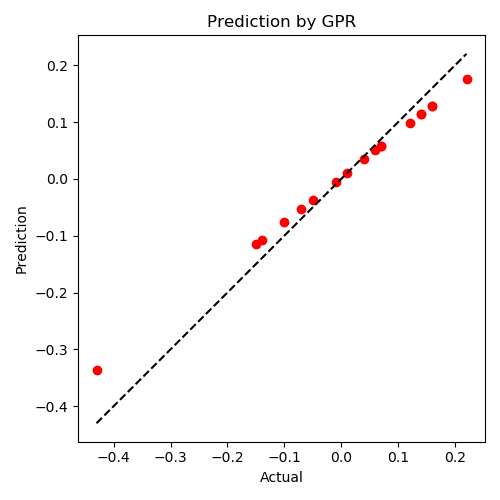
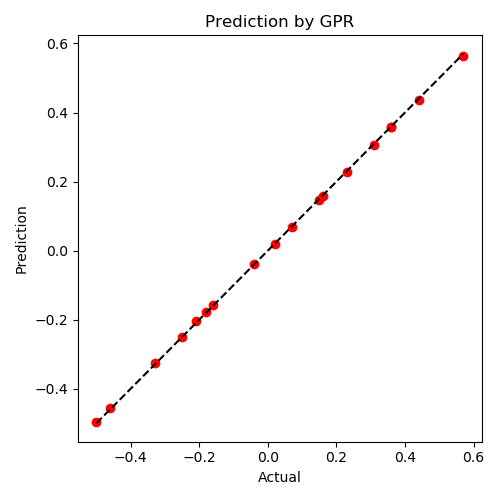
転移学習のコード完成

diff --git a/transfer.py b/transfer.py
@@ -12,12 +12,14 @@ from BO import BayesianOptimization, cut_table
 
 
 class TransferLearning(BayesianOptimization):
-    def __init__(self, base_path, target_path, model_path, save_path=None):
+    def __init__(self, base_path, target_path, model_path, x_scaler_path, y_scaler_path, save_path=None):
         super().__init__(save_path, n_calls=10, idx=0)
         self.data_path = base_path
         self.base_path = base_path
         self.target_path = target_path
         self.model_path = model_path
+        self.x_scaler_path = x_scaler_path
+        self.y_scaler_path = y_scaler_path
         if save_path is None:
             save_path = "result/TL/"
             if not os.path.exists(save_path):
@@ -28,33 +30,35 @@ class TransferLearning(BayesianOptimization):
         self.y = None
         self.x_std = None
         self.y_std = None
-        self.x_scaler = None
+        self.x_scaler_base = None
         self.y_scaler = None
+        self.y_scaler_base = None
         self.model_base = None
 
     def calculate_difference(self, skiprows=1):
-        # TODO: 差分を計算するのは成長速度のみ
         base_data = np.loadtxt(self.base_path, delimiter=",", dtype=float, encoding="utf-8", skiprows=skiprows)
         target_data = np.loadtxt(self.target_path, delimiter=",", dtype=float, encoding="utf-8", skiprows=skiprows)
-        diff_data = np.zeros(target_data.shape)
+        diff_data = target_data.copy()
         for row in range(diff_data.shape[0]):
-            diff_data[row] = target_data[row, :] - base_data[row, :]
+            # Growth rateの差分を計算
+            diff_data[row, -1] = target_data[row, -1] - base_data[row, -1]
         return diff_data
 
-    def load_model(self):
+    def load_model_and_scaler(self):
         try:
             self.model_base = load(self.model_path)
+            self.x_scaler_base = load(self.x_scaler_path)
+            self.y_scaler_base = load(self.y_scaler_path)
         except (FileNotFoundError, TypeError) as e:
             print(e)
 
     def preprocess_data(self, data):
         # 5 inputs(Temperature, Humidity, CO2, Illumination, Time)
         self.x = data[:, :5]
-        self.y = data[:, 5].reshape(-1, 1)  # 1 output(growth rate)
+        self.y = data[:, 5].reshape(-1, 1)  # 1 output(Growth rate)
         # scaling(using StandardScaler)
-        self.x_scaler = StandardScaler()
         self.y_scaler = StandardScaler()
-        self.x_std = self.x_scaler.fit_transform(self.x)
+        self.x_std = self.x_scaler_base.fit_transform(self.x)
         self.y_std = self.y_scaler.fit_transform(self.y)
         print("***** Preprocess finished ({0}) *****".format(str(self.idx)))
 
@@ -65,11 +69,12 @@ class TransferLearning(BayesianOptimization):
         (注意：skoptは最小化問題しか扱えないため, 最大化問題は-1を掛けることで最小化問題に変換している)
         """
         x = np.array(x).reshape(1, -1)
-        x_std = self.x_scaler.transform(x)
+        x_std = self.x_scaler_base.transform(x)
         y_diff_std = self.model.predict(x_std)  # 差分を予測
+        y_diff = self.y_scaler.inverse_transform(y_diff_std)[0][0]
         y_base_std = self.model_base.predict(x_std)  # 転移前のモデルを用いた予測
-        y_tl_std = y_base_std + y_diff_std  # 和を取ることで転移学習を行う
-        y_tl = self.y_scaler.inverse_transform(y_tl_std)[0][0]
+        y_base = self.y_scaler_base.inverse_transform(y_base_std)[0][0]
+        y_tl = y_base + y_diff  # 和を取ることで転移学習を行う
         if self.flag_maximize:
             return y_tl * (-1)
         else:
@@ -98,15 +103,18 @@ if __name__ == "__main__":
     _base_path = "data/SoranoSat_Data.csv"
     _target_path = "data/SoranoSat_Data_Noise.csv"
     _model_path = "result/BO/gp.pkl"
+    _x_scaler_path = "result/BO/x_scaler.joblib"
+    _y_scaler_path = "result/BO/y_scaler.joblib"
 
     # 転移学習の実行
-    TL = TransferLearning(base_path=_base_path, target_path=_target_path, model_path=_model_path)
+    TL = TransferLearning(base_path=_base_path, target_path=_target_path, model_path=_model_path,
+                          x_scaler_path=_x_scaler_path, y_scaler_path=_y_scaler_path)
     _data = TL.calculate_difference(skiprows=1)
-    TL.load_model()
+    TL.load_model_and_scaler()
     TL.preprocess_data(data=_data)
     _kernel = C(1.0, (1e-2, 1e2)) * RBF(1.0, (1e-2, 1e2)) + Wh(0.01, (1e-2, 1e2))
     TL.gaussian_process(kernel=_kernel, save_model=False)
     TL.plot_prediction()
     TL.run_optimization()
     TL.save_result(save_history=False)
-    # cut_table(data_path=_base_path, line_to_cut_off=1)
+    cut_table(data_path=_base_path, line_to_cut_off=1)

diff --git a/BO.py b/BO.py
@@ -86,6 +86,9 @@ class BayesianOptimization:
         self.y_scaler = StandardScaler()
         self.x_std = self.x_scaler.fit_transform(self.x)
         self.y_std = self.y_scaler.fit_transform(self.y)
+        # スケーラーの保存
+        dump(self.x_scaler, self.save_path + "x_scaler.joblib")
+        dump(self.y_scaler, self.save_path + "y_scaler.joblib")
         print("***** Preprocess finished ({0}) *****".format(str(self.idx)))
 
     def gaussian_process(self, kernel=None, save_model=False):
@@ -223,7 +226,7 @@ if __name__ == "__main__":
     _data_path = "data/SoranoSat_Data.csv"
     iteration = 3
     for i in range(iteration):
-        BO = BayesianOptimization(data_path=_data_path, n_calls=100, idx=i)
+        BO = BayesianOptimization(data_path=_data_path, n_calls=10, idx=i)
         BO.preprocess()
         _kernel = C(1.0, (1e-2, 1e2)) * RBF(1.0, (1e-2, 1e2)) + Wh(0.01, (1e-2, 1e2))
         BO.gaussian_process(kernel=_kernel, save_model=True)
